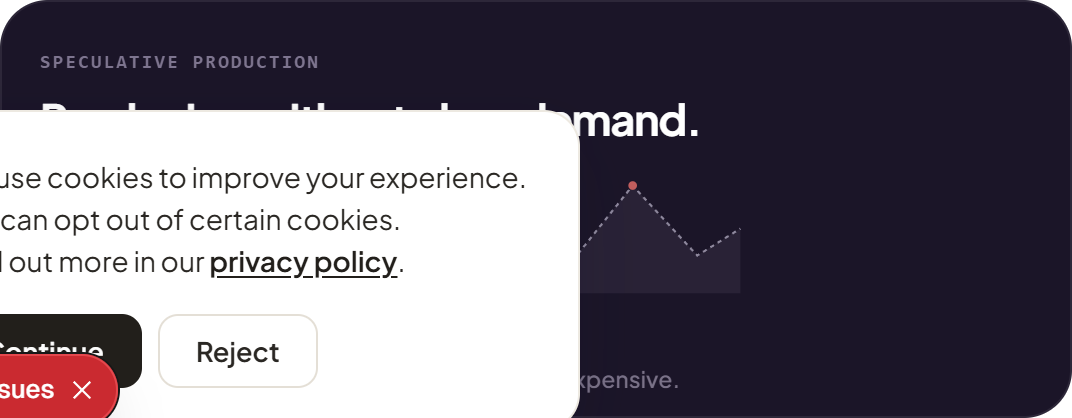
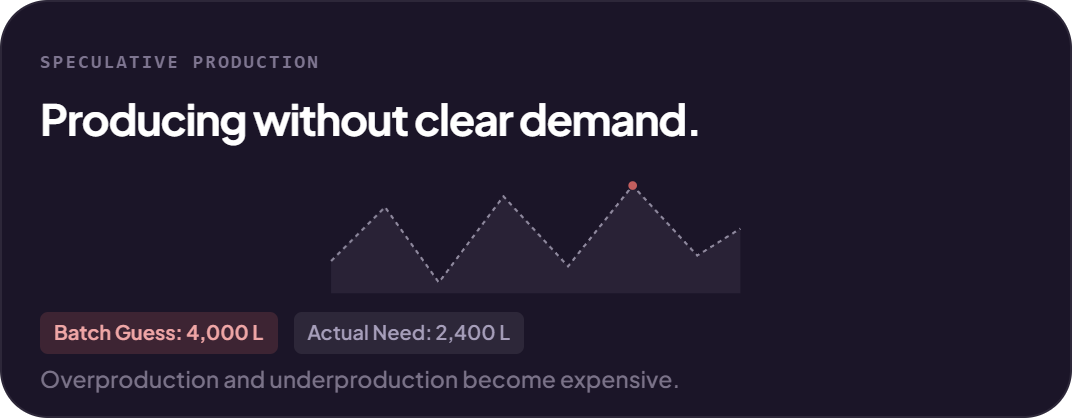
crumble bento

diff --git a/src/components/brand/BentoCrumpleCanvas.tsx b/src/components/brand/BentoCrumpleCanvas.tsx
@@ -627,9 +627,9 @@ export const BentoCrumpleCanvas = forwardRef<BentoCrumpleHandle, BentoCrumpleCan
         const p = Math.min(1, Math.max(0, progress));
 
         cardMeshesRef.current.forEach((card, i) => {
-          const cardStart = i * 0.08;
-          const cardEnd = cardStart + 0.32;
-          const localP = Math.min(1, Math.max(0, (p - cardStart) / (cardEnd - cardStart)));
+          const cardStart = i * 0.07;
+          const cardDuration = 0.28;
+          const localP = Math.min(1, Math.max(0, (p - cardStart) / cardDuration));
 
           if (localP <= 0) {
             card.group.visible = false;
@@ -648,21 +648,41 @@ export const BentoCrumpleCanvas = forwardRef<BentoCrumpleHandle, BentoCrumpleCan
               cards[i]!.style.visibility = 'hidden';
             }
 
-            const crumpleP = Math.min(1, localP / 0.42);
-            deformMesh(card, crumpleP);
-
-            const flightP = Math.max(0, (localP - 0.38) / 0.62);
-            const curX = card.startX + (card.mouthX - card.startX) * flightP;
-            const arc = 4 * card.arcH * flightP * (1 - flightP);
-            const curY = card.startY + (card.mouthY - card.startY) * flightP + arc;
-            const curZ = Math.sin(flightP * Math.PI) * 140 - (flightP > 0.8 ? (flightP - 0.8) * 200 : 0);
-
-            card.group.position.set(curX, curY, curZ);
-            card.group.rotation.set(flightP * card.tumbleX, flightP * card.tumbleY, flightP * card.tumbleZ);
-
-            const shrink = flightP > 0.75 ? 1 - ((flightP - 0.75) / 0.25) * 0.7 : 1;
-            const scale = card.cardWidth * shrink;
-            card.group.scale.set(scale, scale, scale);
+            if (localP <= 0.45) {
+              // ── Phase A: In-Place 3D Crumpling ──
+              const crumpleP = localP / 0.45;
+              const foldEase = crumpleP * crumpleP * (3 - 2 * crumpleP);
+              deformMesh(card, foldEase);
+              const liftZ = Math.sin(crumpleP * Math.PI) * 35;
+              card.group.position.set(card.startX, card.startY, liftZ);
+              const twist = crumpleP * 0.25;
+              card.group.rotation.set(twist * 0.4, -twist * 0.3, twist * (i % 2 === 0 ? 0.6 : -0.6));
+              card.group.scale.set(card.cardWidth, card.cardWidth, card.cardWidth);
+            } else {
+              // ── Phase B: 3D Parabolic Flight to Dustbin ──
+              deformMesh(card, 1);
+              const flightP = (localP - 0.45) / 0.55;
+              const pEase = flightP * flightP * (3 - 2 * flightP);
+              const curX = card.startX + (card.mouthX - card.startX) * pEase;
+              const arc = 4 * card.arcH * flightP * (1 - flightP);
+              const curY = card.startY + (card.mouthY - card.startY) * pEase + arc;
+              let curZ = 35 * (1 - flightP) + Math.sin(flightP * Math.PI) * 150;
+              if (flightP > 0.8) {
+                curZ -= ((flightP - 0.8) / 0.2) * 120;
+              }
+              card.group.position.set(curX, curY, curZ);
+              card.group.rotation.set(
+                0.2 + flightP * card.tumbleX,
+                -0.15 + flightP * card.tumbleY,
+                (i % 2 === 0 ? 0.3 : -0.3) + flightP * card.tumbleZ
+              );
+              let shrink = 1;
+              if (flightP > 0.78) {
+                shrink = 1 - ((flightP - 0.78) / 0.22) * 0.75;
+              }
+              const finalScale = card.cardWidth * shrink;
+              card.group.scale.set(finalScale, finalScale, finalScale);
+            }
           } else {
             card.group.visible = false;
             card.isCaught = true;

diff --git a/scratch/snapshot_cards67_scroll.js b/scratch/snapshot_cards67_scroll.js
@@ -1,0 +1,60 @@
+const path = require('path');
+const { chromium } = require(path.resolve('node_modules/playwright'));
+
+(async () => {
+  const browser = await chromium.launch({
+    headless: true,
+    executablePath: 'C:/Program Files/Google/Chrome/Application/chrome.exe',
+  });
+  const page = await browser.newPage({ viewport: { width: 1440, height: 900 } });
+  await page.goto('http://localhost:3000/brand', { waitUntil: 'networkidle' });
+
+  // Remove cookie banner
+  await page.evaluate(() => {
+    document.querySelectorAll('.cc-banner, [class*="cc-"]').forEach(el => el.remove());
+  });
+
+  const section = await page.$('#system');
+  const secBox = await section.boundingBox();
+  const totalScroll = secBox.height - 900;
+
+  // Let's scroll to secProgress = 0.46 (Card 6 crumpling)
+  // secProgress = (scrollY - secY) / totalScroll
+  // Target scrollY = secY + 0.46 * totalScroll
+  const secY = secBox.y;
+
+  // 1. Snapshot Card 6 crumpling at 46%
+  await page.evaluate(({ secY, total }) => {
+    window.scrollTo(0, secY + 0.46 * total);
+  }, { secY, total: totalScroll });
+  await page.waitForTimeout(200);
+  await page.screenshot({ path: path.resolve('scratch/scroll_card6_crumpling.png') });
+  console.log('Saved scroll_card6_crumpling.png');
+
+  // 2. Snapshot Card 7 crumpling at 56%
+  await page.evaluate(({ secY, total }) => {
+    window.scrollTo(0, secY + 0.56 * total);
+  }, { secY, total: totalScroll });
+  await page.waitForTimeout(200);
+  await page.screenshot({ path: path.resolve('scratch/scroll_card7_crumpling.png') });
+  console.log('Saved scroll_card7_crumpling.png');
+
+  // 3. Snapshot Card 6 & 7 mid-flight into dustbin at 66%
+  await page.evaluate(({ secY, total }) => {
+    window.scrollTo(0, secY + 0.66 * total);
+  }, { secY, total: totalScroll });
+  await page.waitForTimeout(200);
+  await page.screenshot({ path: path.resolve('scratch/scroll_cards67_flight.png') });
+  console.log('Saved scroll_cards67_flight.png');
+
+  // 4. Snapshot dustbin catch at 78%
+  await page.evaluate(({ secY, total }) => {
+    window.scrollTo(0, secY + 0.78 * total);
+  }, { secY, total: totalScroll });
+  await page.waitForTimeout(200);
+  await page.screenshot({ path: path.resolve('scratch/scroll_dustbin_catch.png') });
+  console.log('Saved scroll_dustbin_catch.png');
+
+  await browser.close();
+  console.log('All scroll snapshots saved successfully!');
+})();

diff --git a/src/components/brand/BrandBento.tsx b/src/components/brand/BrandBento.tsx
@@ -185,7 +185,7 @@ export function BrandBento() {
       const totalScrollable = Math.max(1, rect.height - V);
       const secProgress = clamp(-rect.top / totalScrollable);
 
-      if (secProgress < 0.10) {
+      if (secProgress < 0.08) {
         setMorphProgress(0);
         setIsBinOpen(false);
         setIsBinSettled(false);
@@ -206,14 +206,19 @@ export function BrandBento() {
           }
         });
         setLanded({});
-      } else if (secProgress < 0.68) {
+      } else if (secProgress < 0.86) {
         setIsBinOpen(true);
         setIsBinSettled(false);
 
-        const p = clamp((secProgress - 0.10) / 0.58);
+        const p = clamp((secProgress - 0.08) / 0.78);
         setMorphProgress(p);
-        setClearedCount(Math.min(8, Math.floor(p * 9)));
         crumpleCanvasRef.current?.setScrollProgress(p);
+
+        let caught = 0;
+        for (let i = 0; i < 8; i++) {
+          if (p >= i * 0.07 + 0.28) caught++;
+        }
+        setClearedCount(caught);
 
         afterCardsRef.current.forEach((a) => {
           if (a) {
@@ -280,7 +285,7 @@ export function BrandBento() {
   };
 
   const morph = morphProgress;
-  const isAfterActive = morph >= 0.5;
+  const isAfterActive = morph >= 0.88;
   // Helper to render each tile:
   // 1. BEFORE CARD stays where it is from before (grounded in the grid)
   // 2. AFTER CARD (purple Gradient) comes flying into the screen with the 3D flying transition

diff --git a/src/components/brand/BentoDustbin.tsx b/src/components/brand/BentoDustbin.tsx
@@ -35,9 +35,9 @@ export function BentoDustbin({
       <div className="bbo-dustbin-badge">
         <span className="bbo-dustbin-dot" />
         <span className="bbo-dustbin-text">
-          {isAfterActive
+          {clearedCount >= 8 && isAfterActive
             ? '✓ 8/8 Cleared · Clean Board'
-            : isOpen && clearedCount > 0 && clearedCount < 8
+            : isOpen && clearedCount > 0
             ? `Tossing (${clearedCount}/8)...`
             : '🗑 Toss Clutter'}
         </span>
